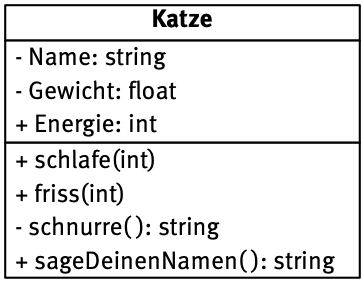
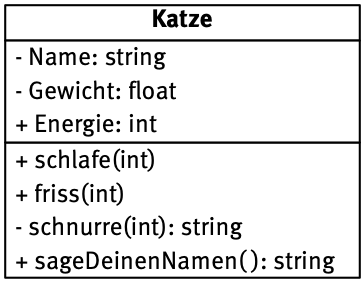
.

Changed region(s): [[0.3626, 0.7633, 0.6648, 0.8481]]

diff --git a/Softwaretechnik/index.md b/Softwaretechnik/index.md
@@ -50,7 +50,11 @@ Häufig kommt es beispielsweise vor, dass der Zugriff auf bestimmte Attribute nu
 
 t> Überlege dir hinreichend plausible Gründe für die Wahl der Sichtbarkeiten im obigen Beispiel.
 
-Aus dieser erweiterten Form der Klassenkarte gehen neben der Sichtbarkeit noch **Parameter** für einzelne Methoden und die **Datentypen** für die Attribute hervor. 
+Aus dieser erweiterten Form der Klassenkarte gehen neben der Sichtbarkeit noch **Parameter** für einzelne Methoden und die **Datentypen** für die Attribute hervor. Die Methode *schlafe* erhält z.B. einen Integer-Wert, während die Methode *sageDeinenName* einen String-Wert zurückliefert. 
 
 w> Du solltest die Bedeutung der Datentypen *Integer*, *Float*, *Boolean* und *String* kennen.
+
+t> Formuliere Übergabe- und Rückgabewert für die übrigen Methoden.
+
+
 
